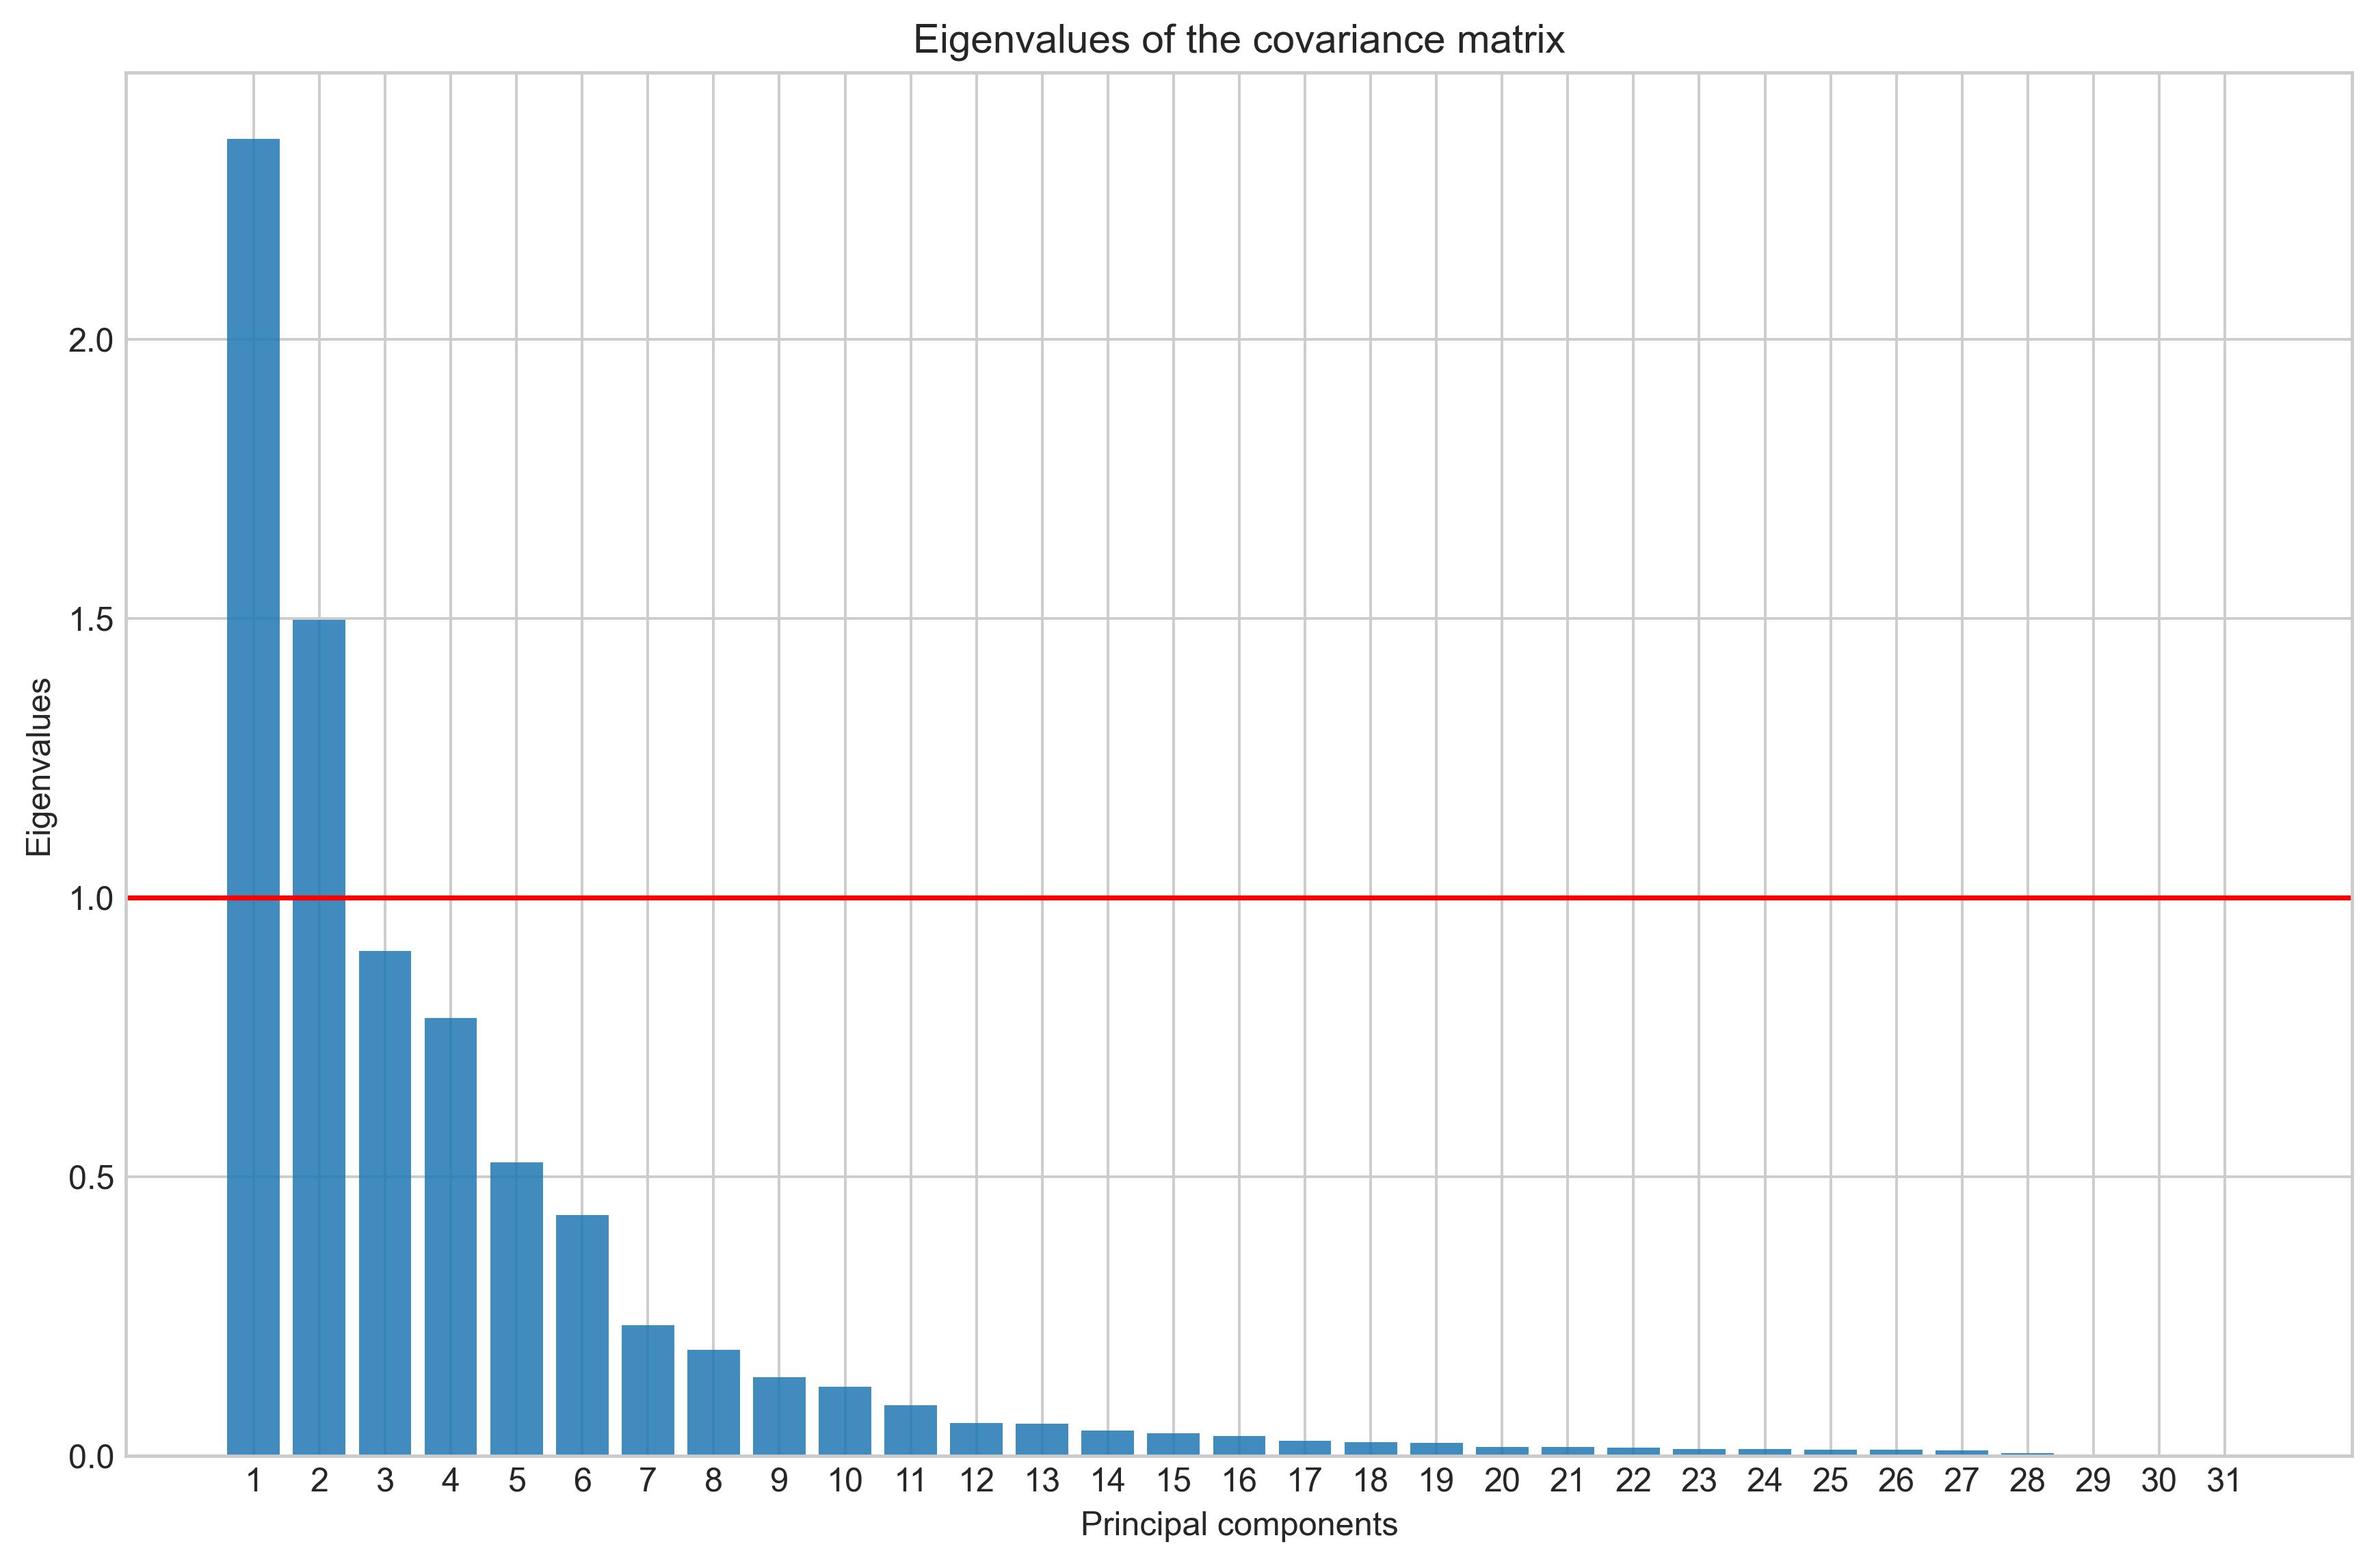
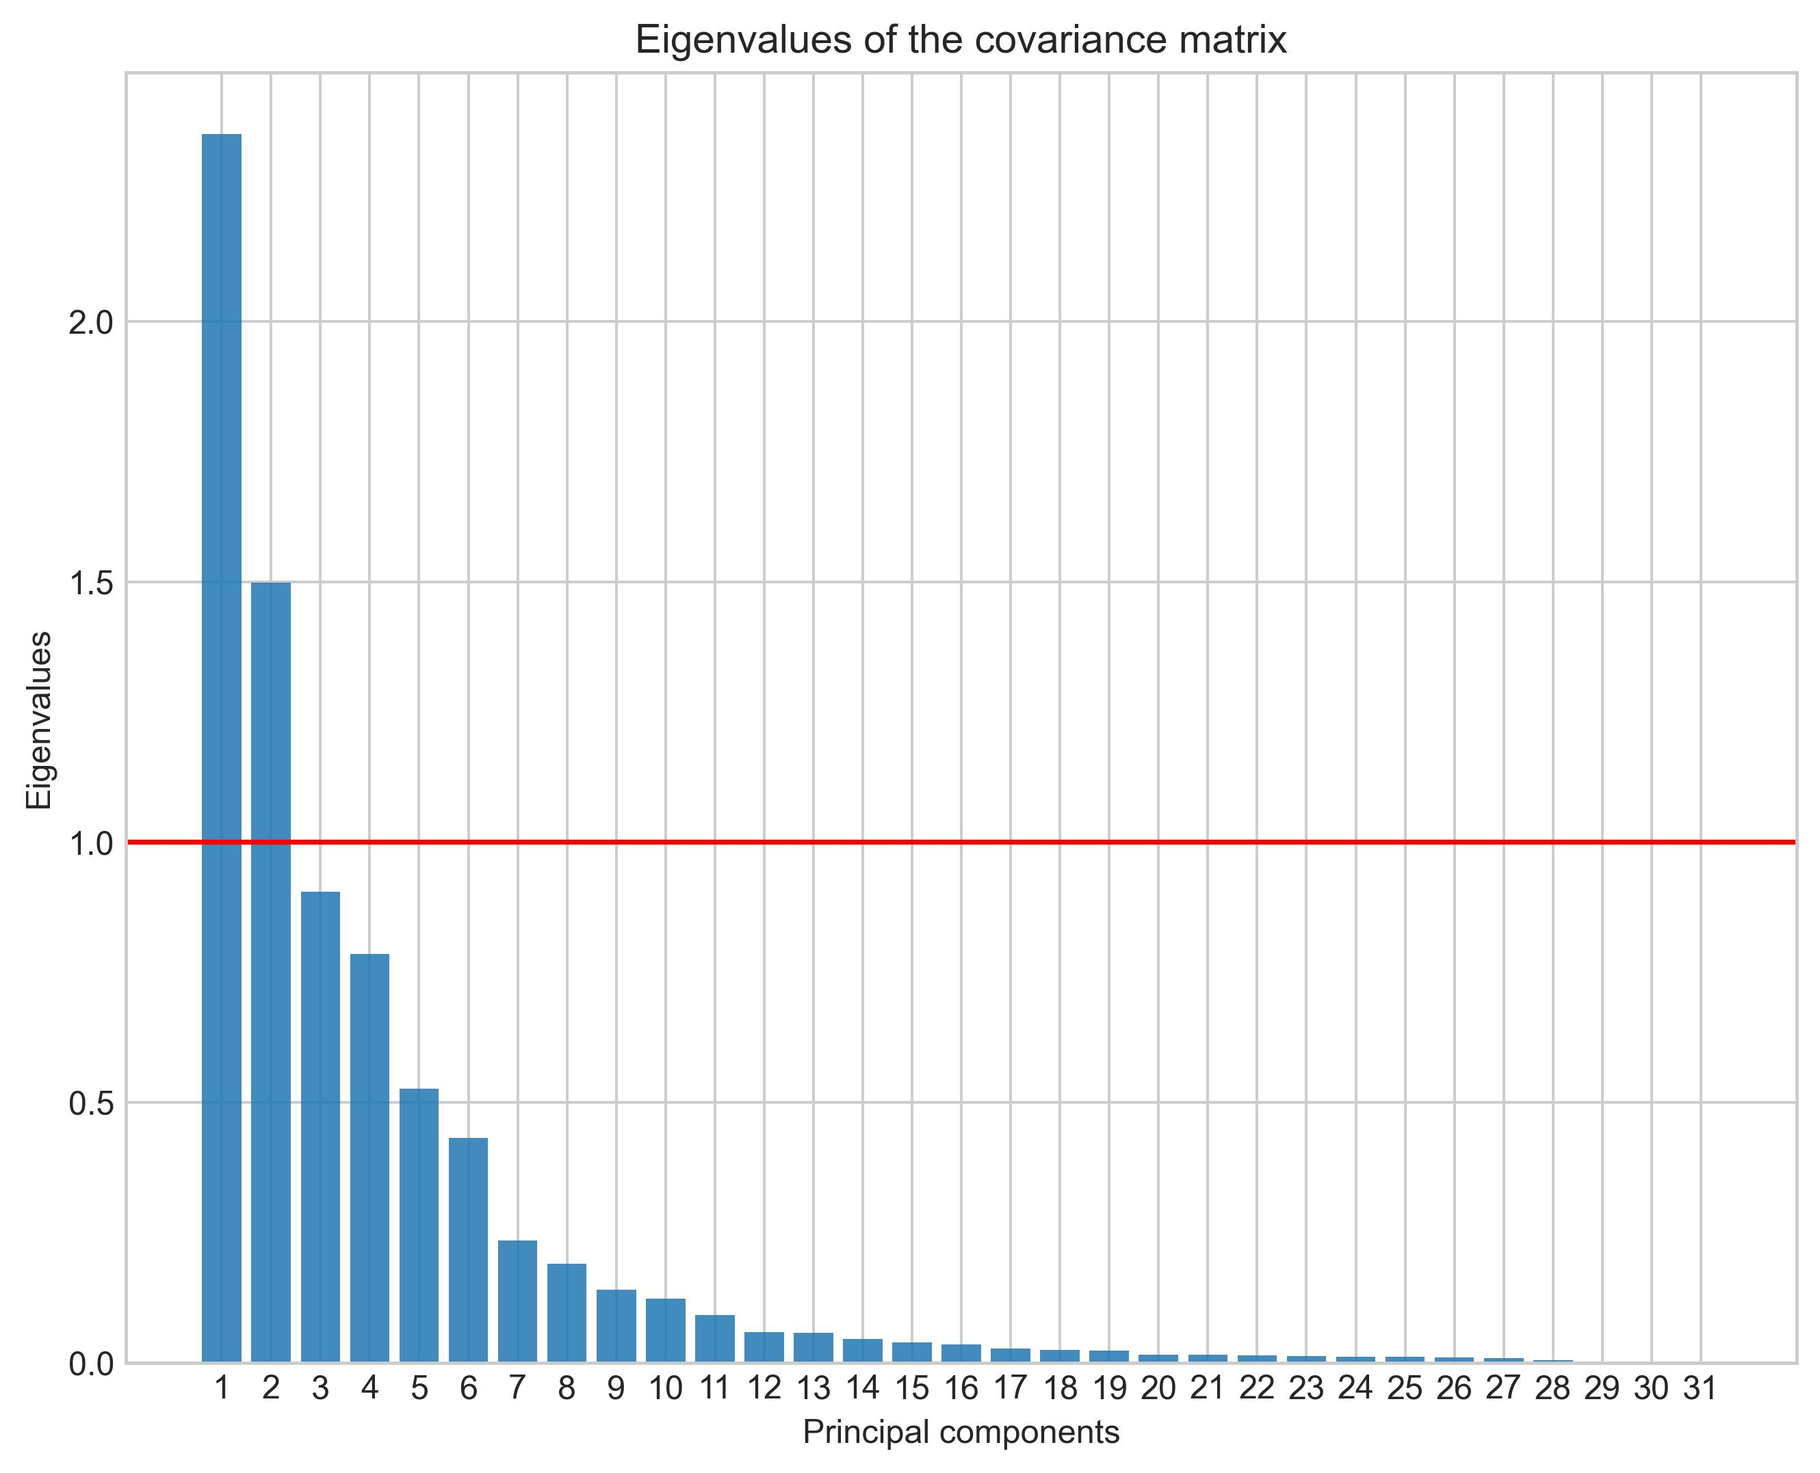
changed size of figures

diff --git a/dim_reduction.py b/dim_reduction.py
@@ -84,7 +84,7 @@ class PCA:
         # select 90% explained variance
         n_com_90_ex_var = [index for index, v in enumerate(cumulative_var_exp) if v >= 90][0]
         plt.style.use('seaborn-whitegrid')
-        fig = plt.figure(figsize=(12, 7.5))
+        fig = plt.figure(figsize=(9, 7))
         plt.bar(range(len(tuples_eig)), var_explained, alpha=0.85, align='center', label='Explained variance')
         plt.step(range(len(tuples_eig)), cumulative_var_exp, where='mid', label='Cumulative Explained variance')
         plt.axvline(n_com_90_ex_var, color='r')
@@ -100,7 +100,7 @@ class PCA:
     def __plot_eigenvalues(self, tuples_eig):
         eigenvalues_plot = [i[0] for i in tuples_eig]
         plt.style.use('seaborn-whitegrid')
-        fig = plt.figure(figsize=(12,7.5))
+        fig = plt.figure(figsize=(9,7))
         principal_components = list(range(1, len(eigenvalues_plot) + 1))
         plt.bar(principal_components, eigenvalues_plot, alpha=0.85, align = 'center')
         plt.axhline(y = 1, color = 'r')
@@ -119,7 +119,7 @@ class PCA:
         chi2lim = ncx2.ppf(0.99, h, g)
         # plot
         plt.style.use('seaborn-whitegrid')
-        fig = plt.figure(figsize=(15, 7.5))
+        fig = plt.figure(figsize=(9, 7))
         plt.plot(range(spe.shape[0]), spe)
         plt.axhline(y=np.sqrt(chi2lim), color='r', label = '$\chi2$ lim')
         plt.ylabel('SPE')

diff --git a/utils.py b/utils.py
@@ -81,7 +81,7 @@ def make_plots(config, metric = 'sil'):
     clustering_fa = pd.read_csv('./results/{}_fa.csv'.format(config['dataset']))
     alg = ['km', 'agg']
     agg_linkage = ['single', 'complete', 'average', 'ward']
-    fig = plt.figure(figsize=(20,7))
+    fig = plt.figure(figsize=(20,4.5))
     plt.subplot(1, 3, 1)
     plt.title('No dimensionality reduction')
     subset_km = clustering_no_dimred.loc[clustering_no_dimred['clusteringAlg'] == 'km']
